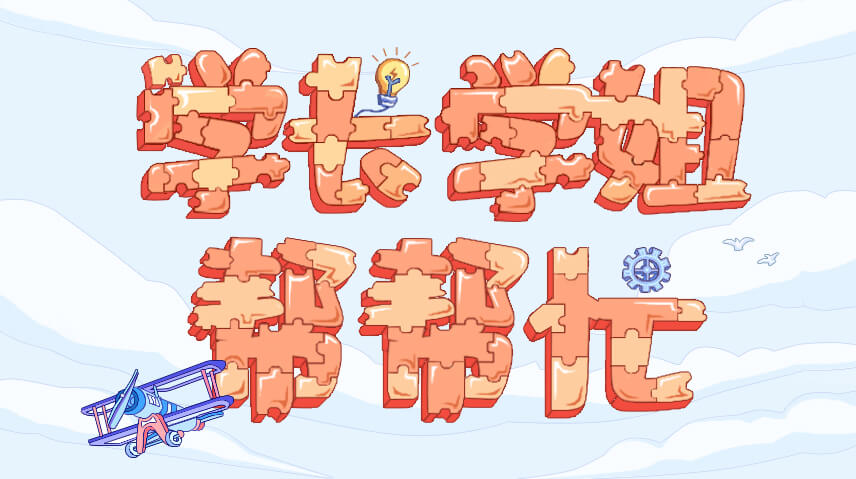
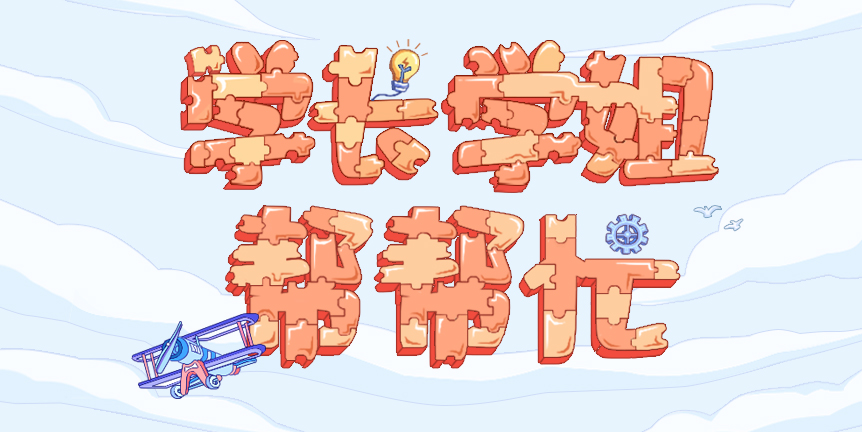
fix wrapper width

diff --git a/src/App.vue b/src/App.vue
@@ -24,17 +24,17 @@ export default {
   },
   //   created() {
   //     console.log(`
-  //    ▄████████    ▄████████ ████████▄     ▄████████  ▄██████▄   ▄████████    ▄█   ▄█▄
-  //   ███    ███   ███    ███ ███   ▀███   ███    ███ ███    ███ ███    ███   ███ ▄███▀
-  //   ███    ███   ███    █▀  ███    ███   ███    ███ ███    ███ ███    █▀    ███▐██▀
-  //  ▄███▄▄▄▄██▀  ▄███▄▄▄     ███    ███  ▄███▄▄▄▄██▀ ███    ███ ███         ▄█████▀
-  // ▀▀███▀▀▀▀▀   ▀▀███▀▀▀     ███    ███ ▀▀███▀▀▀▀▀   ███    ███ ███        ▀▀█████▄
-  // ▀███████████   ███    █▄  ███    ███ ▀███████████ ███    ███ ███    █▄    ███▐██▄
-  //   ███    ███   ███    ███ ███   ▄███   ███    ███ ███    ███ ███    ███   ███ ▀███▄
-  //   ███    ███   ██████████ ████████▀    ███    ███  ▀██████▀  ████████▀    ███   ▀█▀
-  //   ███    ███                           ███    ███                         ▀
+  //      ▄████████    ▄████████ ████████▄     ▄████████  ▄██████▄   ▄████████    ▄█   ▄█▄
+  //     ███    ███   ███    ███ ███   ▀███   ███    ███ ███    ███ ███    ███   ███ ▄███▀
+  //     ███    ███   ███    █▀  ███    ███   ███    ███ ███    ███ ███    █▀    ███▐██▀
+  //    ▄███▄▄▄▄██▀  ▄███▄▄▄     ███    ███  ▄███▄▄▄▄██▀ ███    ███ ███         ▄█████▀
+  //   ▀▀███▀▀▀▀▀   ▀▀███▀▀▀     ███    ███ ▀▀███▀▀▀▀▀   ███    ███ ███        ▀▀█████▄
+  //   ▀███████████   ███    █▄  ███    ███ ▀███████████ ███    ███ ███    █▄    ███▐██▄
+  //     ███    ███   ███    ███ ███   ▄███   ███    ███ ███    ███ ███    ███   ███ ▀███▄
+  //     ███    ███   ██████████ ████████▀    ███    ███  ▀██████▀  ████████▀    ███   ▀█▀
+  //     ███    ███                           ███    ███                         ▀
 
-//   红岩网校 2019 新生专题网 PC 端项目组: 何庚坤、陈先勤
+//   红岩网校 2019 迎新网 PC 端项目组：何庚坤、陈先勤
 // `)
 //   },
 }
@@ -61,8 +61,6 @@ body {
 }
 
 #app {
-  width: 100vw;
-  margin: 0 auto;
   font-family: 'coolfont';
   font-size: 0;
   -webkit-font-smoothing: antialiased;

diff --git a/src/views/event/Help.vue b/src/views/event/Help.vue
@@ -281,7 +281,7 @@ export default {
     border: 2px solid #7ca0ff;
   }
   .con-wrapper {
-    margin: 20px 18px 14px 123px;
+    margin: 24px 18px 14px 123px;
     height: 88px;
     color: #3861c3;
     .name {
@@ -378,7 +378,7 @@ display: -webkit-box;
           .con {
             width: 630px;
             height: 38px;
-            margin-top: 10px;
+            margin-top: 21px;
             font-size: 14px;
             font-family: '微软雅黑';
             word-break: keep-all;
@@ -394,7 +394,8 @@ display: -webkit-box;
 -webkit-box-orient: vertical;
           }
           .foot {
-            margin-top: -6px;
+            float: right;
+            margin-top: -12px;
             display: flex;
             justify-content: flex-end;
             font-size: 12px;

diff --git a/vue.config.js b/vue.config.js
@@ -12,14 +12,18 @@ module.exports = {
     config.entry.app = ['babel-polyfill', './src/main.js'];
   },
   pwa: {
-    name: 'welcome-2019-pc',
+    name: '邮你造未来 | 2019 迎新网',
     themeColor: '#b0ceff',
-    msTileColor: '#000000',
+    msTileColor: '#b0ceff',
     appleMobileWebAppCapable: 'yes',
-    appleMobileWebAppStatusBarStyle: 'black',
+    appleMobileWebAppStatusBarStyle: '#b0ceff',
     workboxPluginMode: 'GenerateSW',
     workboxOptions: {
       include: [/\.html$/, /\.js$/, /\.(?:png|gif|jpg|jpeg|svg)$/, /\.css$/],
+    },
+    iconPaths: {
+      favicon32: 'img/icons/logo192x192.png',
+      favicon16: 'img/icons/logo192x192.png',
     },
   },
   devServer: {

diff --git a/src/components/base/Button.vue b/src/components/base/Button.vue
@@ -18,8 +18,9 @@ export default {
   display: flex;
   align-items: center;
   justify-content: center;
-  width: 133px ;
-  height: 48px ;
+  width: 133px;
+  height: 48px;
+  line-height: 2px;
   background: url(../../assets/img/Button/button.png);
   background-size: 100% 100%;
   cursor: pointer;

diff --git a/src/components/layout/MyFooter.vue b/src/components/layout/MyFooter.vue
@@ -34,7 +34,6 @@ export default {
 <style lang="scss" scoped>
 #footer {
     margin: 0 auto;
-    width: 1440px;
     height: 285px;
     background: url(../../assets/img/Footer/footerBG.png) no-repeat;
     background-size: 100% 100%;

diff --git a/src/components/layout/MyHeader/Banner.vue b/src/components/layout/MyHeader/Banner.vue
@@ -231,7 +231,6 @@ export default {
   top:63px;
   margin: 0 auto;
   height: 631px;
-  width: 100vw;
   background-image: url(../../../assets/img/Banner/banner.png);
   background-repeat: no-repeat;
   background-size: 100% 100%;

diff --git a/src/views/data/Subject.vue b/src/views/data/Subject.vue
@@ -95,6 +95,7 @@ export default {
             },
             zlevel: 1,
             axisLabel: {
+              margin: 14,
               textStyle: {
                 fontWeight: 'bold',
               },

diff --git a/src/views/Home.vue b/src/views/Home.vue
@@ -54,7 +54,6 @@ export default {
 
 <style lang="scss" scoped>
 .wrapper {
-  width: 1440px;
   margin: 0 auto;
   position: relative;
   .left-track {
